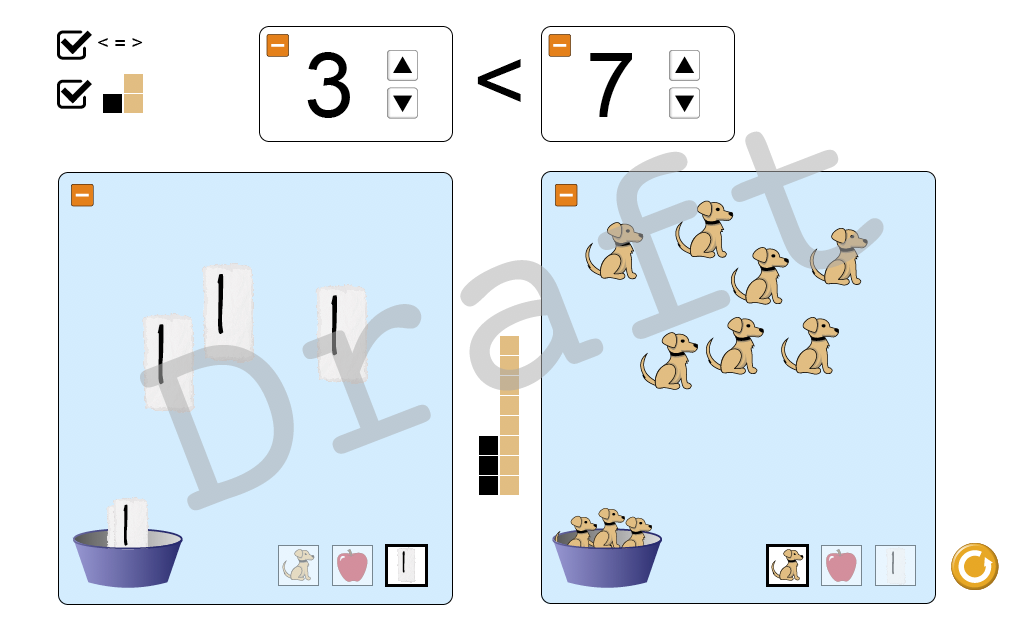
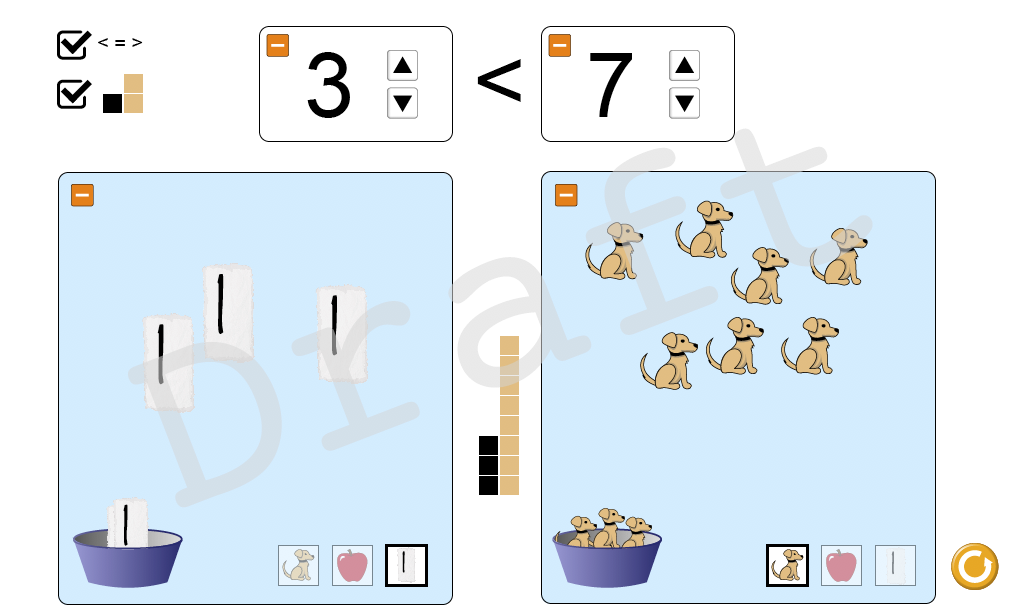
Add game screen and update placeholder images, see https://github.com/phetsims/number-play/issues/2

diff --git a/js/game/GameScreen.js b/js/game/GameScreen.js
@@ -1,0 +1,48 @@
+// Copyright 2019, University of Colorado Boulder
+
+/**
+ * The 'Game' screen.
+ *
+ * @author Chris Klusendorf (PhET Interactive Simulations)
+ */
+define( require => {
+  'use strict';
+
+  // modules
+  const GameModel = require( 'NUMBER_PLAY/game/model/GameModel' );
+  const GameScreenView = require( 'NUMBER_PLAY/game/view/GameScreenView' );
+  const Image = require( 'SCENERY/nodes/Image' );
+  const numberPlay = require( 'NUMBER_PLAY/numberPlay' );
+  const Property = require( 'AXON/Property' );
+  const Screen = require( 'JOIST/Screen' );
+
+  // strings
+  const screenGameString = require( 'string!NUMBER_PLAY/screen.game' );
+
+  // images
+  const gameScreenIconImage = require( 'image!NUMBER_PLAY/game_screen_icon.png' );
+
+  class GameScreen extends Screen {
+
+    /**
+     * @param {Tandem} tandem
+     */
+    constructor( tandem ) {
+
+      const options = {
+        name: screenGameString,
+        backgroundColorProperty: new Property( 'white' ),
+        homeScreenIcon: new Image( gameScreenIconImage ),
+        tandem: tandem
+      };
+
+      super(
+        () => new GameModel( tandem.createTandem( 'model' ) ),
+        model => new GameScreenView( model, tandem.createTandem( 'view' ) ),
+        options
+      );
+    }
+  }
+
+  return numberPlay.register( 'GameScreen', GameScreen );
+} );

diff --git a/js/game/view/GameScreenView.js b/js/game/view/GameScreenView.js
@@ -1,0 +1,51 @@
+// Copyright 2019, University of Colorado Boulder
+
+/**
+ * ScreenView for the 'Game' screen.
+ *
+ * @author Chris Klusendorf (PhET Interactive Simulations)
+ */
+define( require => {
+  'use strict';
+
+  // modules
+  const Image = require( 'SCENERY/nodes/Image' );
+  const numberPlay = require( 'NUMBER_PLAY/numberPlay' );
+  const ScreenView = require( 'JOIST/ScreenView' );
+
+  // images
+  const gameScreenPlaceholderImage = require( 'image!NUMBER_PLAY/game_screen_placeholder.png' );
+
+  class GameScreenView extends ScreenView {
+
+    /**
+     * @param {GameModel} model
+     * @param {Tandem} tandem
+     */
+    constructor( model, tandem ) {
+
+      super( {
+        tandem: tandem
+      } );
+
+      // add the screen's placeholder image
+      const gameScreenPlaceholderImageNode = new Image( gameScreenPlaceholderImage, {
+        maxWidth: this.layoutBounds.width,
+        maxHeight: this.layoutBounds.height,
+        cursor: 'pointer'
+      } );
+      gameScreenPlaceholderImageNode.center = this.layoutBounds.center;
+      this.addChild( gameScreenPlaceholderImageNode );
+    }
+
+    /**
+     * Resets the view.
+     * @public
+     */
+    reset() {
+      //TODO
+    }
+  }
+
+  return numberPlay.register( 'GameScreenView', GameScreenView );
+} );

diff --git a/js/number-play-main.js b/js/number-play-main.js
@@ -10,6 +10,7 @@ define( require => {
 
   // modules
   const CompareScreen = require( 'NUMBER_PLAY/compare/CompareScreen' );
+  const GameScreen = require( 'NUMBER_PLAY/game/GameScreen' );
   const LabScreen = require( 'NUMBER_PLAY/lab/LabScreen' );
   const Sim = require( 'JOIST/Sim' );
   const SimLauncher = require( 'JOIST/SimLauncher' );
@@ -40,6 +41,7 @@ define( require => {
       new TenScreen( Tandem.rootTandem.createTandem( 'tenScreen' ) ),
       new TwentyScreen( Tandem.rootTandem.createTandem( 'twentyScreen' ) ),
       new CompareScreen( Tandem.rootTandem.createTandem( 'compareScreen' ) ),
+      new GameScreen( Tandem.rootTandem.createTandem( 'gameScreen' ) ),
       new LabScreen( Tandem.rootTandem.createTandem( 'labScreen' ) )
     ], simOptions );
     sim.start();

diff --git a/js/game/model/GameModel.js b/js/game/model/GameModel.js
@@ -1,0 +1,42 @@
+// Copyright 2019, University of Colorado Boulder
+
+/**
+ * Model class for the 'Game' screen.
+ *
+ * @author Chris Klusendorf (PhET Interactive Simulations)
+ */
+define( require => {
+  'use strict';
+
+  // modules
+  const numberPlay = require( 'NUMBER_PLAY/numberPlay' );
+
+  class GameModel  {
+
+    /**
+     * @param {Tandem} tandem
+     */
+    constructor( tandem ) {
+      //TODO
+    }
+
+    /**
+     * Resets the model.
+     * @public
+     */
+    reset() {
+      //TODO
+    }
+
+    /**
+     * Steps the model.
+     * @param {number} dt - time step, in seconds
+     * @public
+     */
+    step( dt ) {
+      //TODO
+    }
+  }
+
+  return numberPlay.register( 'GameModel', GameModel );
+} );
